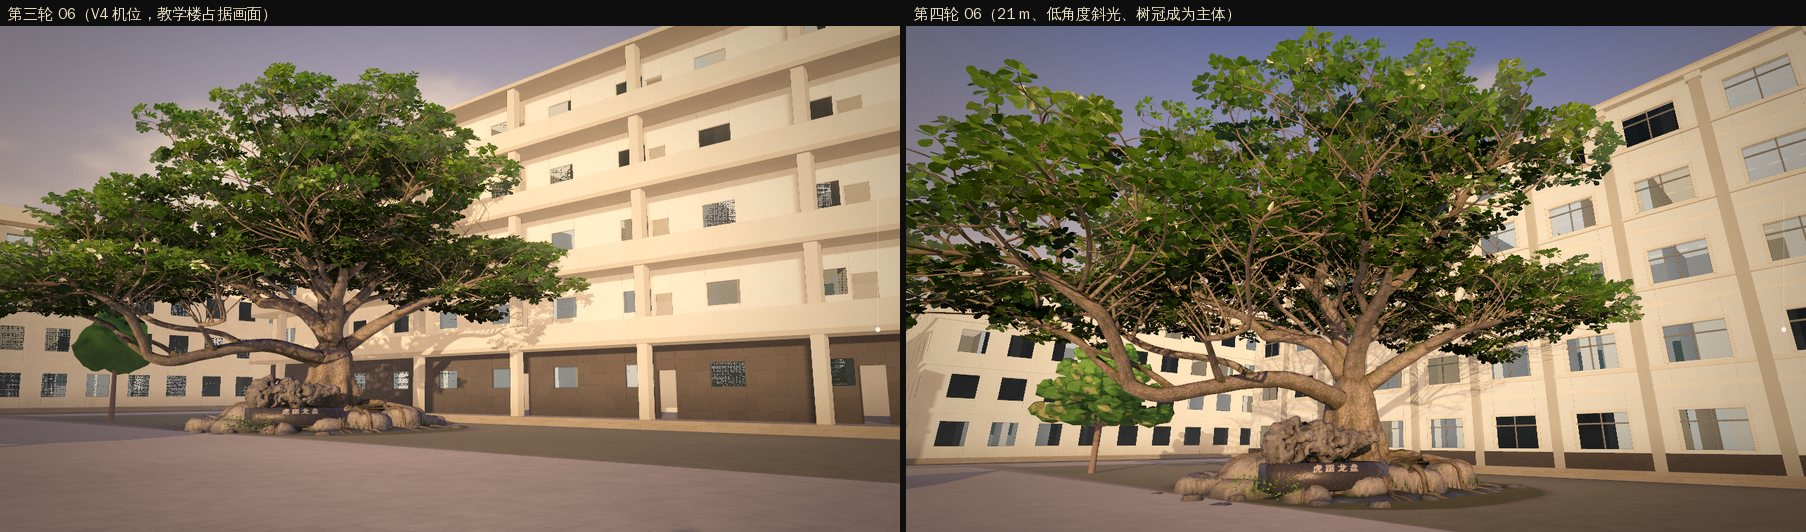
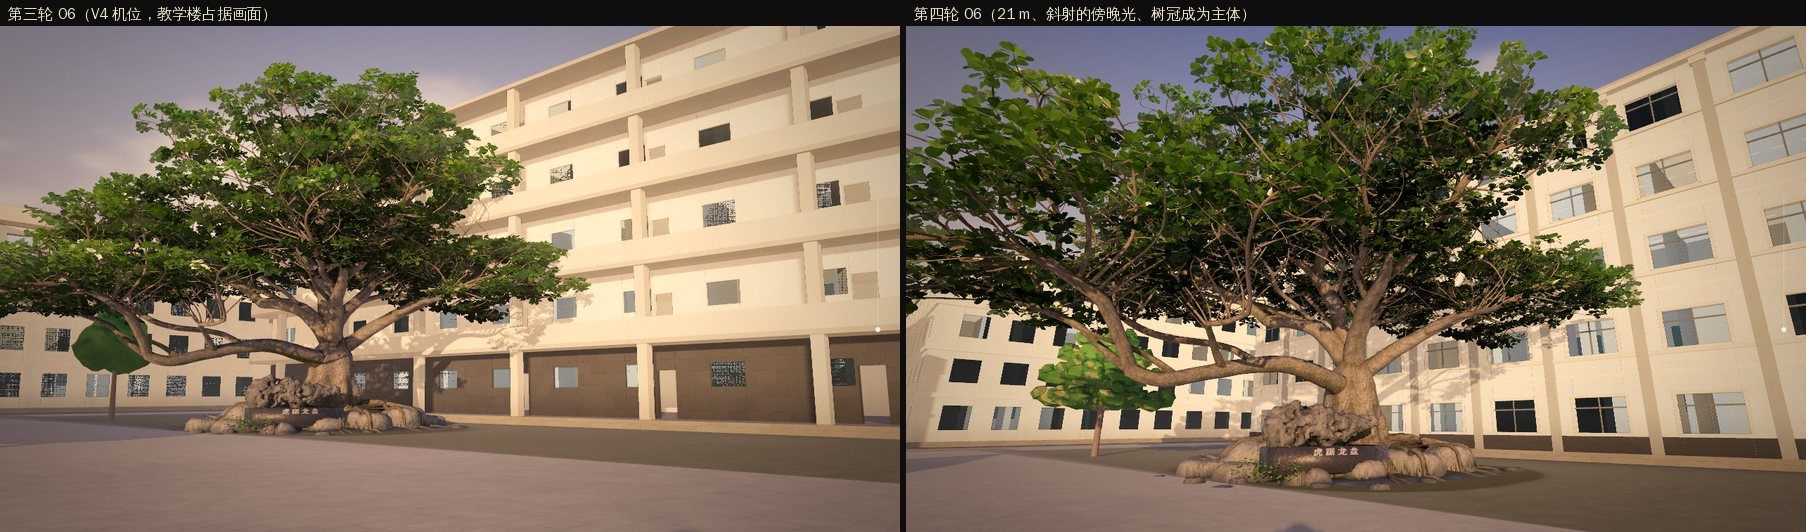
art4: before/after sheets (06, 一号教学楼, act 2 stations, act 3, phone), keyframes; round 4 notes
Claude-Session: https://claude.ai/code/session_01KSor8UyGbqpnVH4L4Tijej

Changed region(s): [[0.4961, 0.0, 1.0, 1.0], [0.9302, 0.7218, 0.9612, 0.782]]

diff --git a/docs/haiz-art-pass-4-20261108.md b/docs/haiz-art-pass-4-20261108.md
@@ -1,10 +1,10 @@
 # HAIZ 六幕 · 第四轮美术精修 · 可信的校园，有时间的人（2026-11-08）
 
-分支 `claude/youthful-davinci-c31244`（接第三轮 `4a7e2df`）。作品叶位地址、历史资料与出处、账号与数据权限、地图空间坐标没有改动；一号教学楼的占地、楼层、高度和碰撞矩形也没有改动。
+分支 `claude/youthful-davinci-c31244`（接第三轮 `4a7e2df`）。没有改动的有：作品叶位地址、历史资料与出处、照片署名与可信度、账号与数据权限、地图空间坐标；一号教学楼的占地、楼层、高度和碰撞矩形也没有改。没有推送 `main`。
 
-图在 `docs/lanren/art4/`，全部是 Chromium 真实 WebGL 渲染（容器无 GPU：SwiftShader 软件渲染）。
+图在 `docs/lanren/art4/`，全部是 Chromium 真实 WebGL 渲染（容器没有 GPU，用的是 SwiftShader 软件渲染），不是合成。
 
-建筑照片参考与建模依据：**`docs/haiz-campus-reference-20261108.md`**。
+建筑照片参考与建模依据单独成文：**`docs/haiz-campus-reference-20261108.md`**。
 
 ---
 
@@ -16,12 +16,159 @@ python3 -m http.server 8080
 
 | 看什么 | 怎么看 |
 |---|---|
-| 第五 → 第六幕（按人的时间） | `index.html`，导航点 05，向下滚动一下然后停手：电影会以它自己的速度演到下一个停顿点；再滚一下继续；向上滚动倒放 |
-| 真实时间播放的录屏 | `docs/lanren/art4/film-realtime.mp4`（40.5 秒，按电影自己的时钟） |
-| 可逆滚动的录屏 | `docs/lanren/art4/film-scrub.mp4`（同一段落前进、停住、倒回） |
-| 第二幕的「光里的照片」 | 滚到第二幕任一年代，停手约一秒 |
+| 第五 → 第六幕（按人的时间） | `index.html`，导航点 05，向下滚动一下然后停手：电影按它自己的速度演到下一个停顿点；再滚一下继续；向上滚动倒放。任何滚轮、触摸、按键都立即接管 |
+| 真实时间播放 | `docs/lanren/art4/film-realtime.mp4`：40.5 秒电影加 4 秒停留，按电影自己的时钟逐帧渲染（每秒 6 帧，混合补帧到 24 fps） |
+| 可逆滚动 | `docs/lanren/art4/film-scrub.mp4`：从行走到回望，前进、倒回、再前进 |
+| 第二幕「光里的照片」 | 滚到第二幕任何一个年代，停手约一秒 |
+| 第三幕 | `index.html?works=demo#leaves`，点「走进作品树冠」 |
 | 第四幕三维校园 | 第四幕「展开为三维」 |
 
 ---
 
-（以下各节由本轮最终结果填写）
+## 1. 校园：从「近似体量」到可以对照照片的建筑
+
+### 1.1 一号教学楼：入口原来背对着它的树
+
+研究照片时发现了一个比材质更根本的问题。学校原文写「**楼前**大叶榄仁树……与**楼前**太湖石」；平面校正以「北门—太湖石—一号教学楼正中」三点共线确定主轴；第二幕 2023 年的照片也显示树后是一号楼有窗的立面。但模型沿用通用的教学楼造型：入口门廊在一侧，开放外廊在另一侧，而朝向榄仁树的恰好是外廊。第六幕回望时，树后其实是这栋楼的背面。
+
+现在一号楼有自己的造型（`lanren/map/campus3d.js` `FORMS.yihao`），并在**同一矩形内转 180°**，让入口朝向树。依据仓库中的正面照片：
+- **两翼**：灰色壁柱、宽窗，每扇窗有白色窗套、灰色窗框、横档和中梃；每层一道白色窗台带；花岗岩勒脚；红瓦檐口。
+- **中央**：两座约四层高的深色花岗岩塔体，每层一扇窄窗；塔体之间三列大窗。
+- **入口**：花岗岩门套，两侧低矮的红色雨棚；上方是平台门廊，两根白柱，红瓦四角起翘屋顶（新增 `sweptHip` 几何体）。
+- **顶部**：升起的女儿墙段、两角方墩、浅色起翘屋顶。
+
+照片验证、推断、缺乏证据三类的逐项对照表，以及「照片显示约 6 层而数据为 5 层」等疑问，见参考文档。背面、两端和室内仍是推测。
+
+### 1.2 树木：按树种的形态
+
+数据里早就为 300 棵校园树标了树种（大叶榄仁 70、椰子 64、重阳木 37、红豆 27、木棉 20、榕树 19……），但画面上只有「椰子」和「圆球」两种。现在每种形态有自己的骨架和叶团，每种三个变体：
+- 大叶榄仁是四层水平轮生枝，与主角那棵树呼应。
+- 木棉是高直树干和稀疏的层枝。
+- 榕树是粗干、宽阔的穹顶冠和少量气根。
+- 风铃木是低分叉的开放瓶形冠。
+- 椰子是微弯的环纹灰干和 18 片拱起下垂的羽叶。
+
+叶团围绕真实枝干生长，轮廓被小团块打碎，所以不再是球。
+
+### 1.3 第四幕同步受益
+
+三维校园展开时，一号楼的入口、塔体与门廊朝向树；树种形态遍布校园（`act4-campus.jpg`）。单栋楼的楼层剖切功能保留（剖切截图在软件渲染下超时，见第 7 节）。
+
+---
+
+## 2. 第五 → 第六幕：按一个人的时间
+
+### 2.1 找到的根本原因：滚动吸附把整段行走压成一秒半
+
+上一轮的人物显得急促，表演本身之外还有一个工程原因。第五、六幕之间的滚动吸附会在停手后，用 0.55–1.5 秒把画面推到下一个停顿点。从「落地」到「停住」之间是约 25 米的行走，于是被压进一秒多，相当于 17 m/s。
+
+现在：
+- **电影有自己的时钟**（`lanren/world/film.js` `DURATION`，共 40.5 秒）。滚动进度与这个时钟成正比，匀速滚动就是人的速度。
+- **电影内部不再吸附**。停手后，电影按自己的速度演到下一个停顿点：前进按原速，倒退快一些（`lanren/js/home.js` `filmOn`）。任何滚轮、触摸、按键立即接管；减少动态效果时不自动播放。
+- 电影的滚动长度从 300vh 增加到 420vh，手动拖动也更从容。
+
+### 2.2 重新表演的段落
+
+| 段落 | 时长 | 表演 |
+|---|---|---|
+| 落地 | 3.6 s | 膝盖吸收冲击，蹲着停一口气；起身时顺势一步接住重心；站稳后环顾：一侧，抬眼看校园，另一侧，再回到要走的方向。身体随之转过去 |
+| 行走 | 11.2 s | 路线微微弯曲（人会偏一点），速度先慢后稳；中途放慢到三分之一，侧头看一座被夕阳照亮的建筑（就是一号楼新的入口），然后继续；最后两步逐渐停住。整数步数，脚在终点并拢；巡航速度 1.42 m/s，步幅 0.68 m |
+| 停住 | 1.6 s | 脚先停；上身带着惯性前倾又回来，手臂多摆一点才静下来，重心移到一条腿上 |
+| 注意到 | 2.6 s | 目光从夕阳落到地面，然后**头越过肩膀向后看**（最多 110°），向下：自己的影子正长长地躺在身后。停留 |
+| 回头 | 3.0 s | 肩膀和脚跟随头转过去，目光一直贴着地上的影子，沿它走向树根 |
+| 升起 | 3.4 s | 目光沿树干升入整个树冠，焦距变长 |
+
+### 2.3 减少没有意义的距离，而不是让人走快
+
+- 第六幕的站位从 V4 的 37 m 移到距树 21 m 的位置，在傍晚影子指回树的那条线上（`lanren/world/compose.js` 构图 B 的 `shot6`），行走从约 15 m 缩短到 11.2 m。
+- 跃下的方向更多朝向终点（落点仍在小岛之外）。
+- 这也解决了「教学楼过于抢眼」：更近、更低的机位让树冠成为画面主体，楼成为背景（`ab-06.jpg`）。
+
+### 2.4 光线
+
+06 的太阳从 298° 移到 320°（05 是 302°，电影进行中逐渐转过去）：
+- 一号楼立面从被正面照亮变成斜射光，新做的壁柱和窗套投下阴影，墙面不再发亮。
+- 人物的影子几乎正对着树干。
+- 构图 A 的太阳按同样的关系重算；漫游延续同一个傍晚。
+
+### 2.5 跃下的顶点
+
+从人物的眼睛看出去时，镜头前一臂以内的叶子会以抖动的方式淡开（`foliage.js` `uNearCut`），像人的眼睛越过一片贴在眼前的叶子。弧线顶点时视线略高于水平，看向校园和天空。
+
+**仍未完全解决**：顶点下方仍有一根粗枝占据画面下部（`film-realtime-sheet.jpg` 第 2 行末）。这根树皮不能淡出，要根本解决需要换起跳点。
+
+### 2.6 第六幕的凝望
+
+安静时间从 2.8 秒延长到 4.2 秒。期间仍可随时按 ↓ / Enter / 滚动交接，只是不催促。
+
+---
+
+## 3. 第二幕：照片能被看清
+
+逐站审查（`act2-stations.jpg`，13 个停靠点，改动前的停靠画面对照改动后停住约一秒的画面）。
+
+改动前看不清的有：
+- 1953—1988 门楼、1988、2015、2023 四张照片，投在叶片和枝条之间时碎得无法辨认。
+- 1938—1946 的「停办」几乎全黑。
+- 1953、1959、2013 的年份顺着枝条倾斜。
+
+**新的方式：光里的照片**（`lanren/roots/roots.js`）：
+- **移动时不变**：照片仍在树上显影，沿树干、枝条和叶片的真实深度碎开，到下一站再聚拢。
+- **停住约一秒后再聚拢一次**：散在树上的光收拢成**同一张照片**，在投影机画它的同一位置、同一大小，展平、立正、均匀照亮。照片下有一层柔和的暗底，四周仍是真实的树叶和枝条。
+- **年代调色**：它带着那个年代的黑白或褐调。它画在后期处理之后，前景叶片的景深模糊不会盖住它，1938 年的低曝光也不会吞掉它。
+- **继续滚动**：照片会再次碎回树上。
+- 只有文字的年代同样聚拢，所以「停办」、1953 年的倾斜年份都变得清楚。
+
+同时修复：从一站跳到另一站时，上一站的照片立即消失（审查中发现上一站的「1924」残留在 1938 站）。照片的位置限制在顶栏、底部文字和右侧年代条之间。
+
+手机（`ab-02-phone-1988.jpg`）：1988 门楼在竖屏上半部清楚显现。
+
+史实、出处、署名、可信度标记一字未改；完整照片仍在「展开阅读」中。
+
+---
+
+## 4. 第三幕：标签不再互相竞争
+
+- 只有一个标签是**主标签**：选中、悬停、聚焦的那片叶，否则是最靠近画面中心的那片。它用完整的烟熏标签，字号更大。
+- 其余最多三个（手机一个）是**安静的名字**：更小、无作者行、底色更淡，悬停时补全。再多的只留圆环和编号，悬停时出现。
+- 手机上顶部的长段「演示」说明折叠成一个「演示 · 说明」小标签，点开才展开，屏幕上半部留给树冠。
+- 阅读视图、触屏 44 px 点击区、五个方向的入口保持不变（`ab-03.jpg`、`ab-03-phone.jpg`）。
+
+---
+
+## 5. 第一幕
+
+重新看过桌面和手机的首屏：冬末红叶、黎明逆光、留白和文字都成立，校园在这一幕不出现（保持 V4 的孤树）。本轮**没有改动第一幕**，不是因为跳过，而是没有找到比现状更好的改法。
+
+---
+
+## 6. 交付内容对照
+
+| 你要求的 | 在哪里 |
+|---|---|
+| 校园建筑照片参考与建模依据 | `docs/haiz-campus-reference-20261108.md` |
+| 校园建模、材质前后对比 | `yihao.jpg`（模型 / 参考照片）、`ab-yihao.jpg`、`ab-06.jpg`、`act4-campus.jpg` |
+| 第五至第六幕：真实时间播放 + 可逆滚动 | `film-realtime.mp4`、`film-scrub.mp4`、`film-realtime-sheet.jpg` |
+| 第二幕每个停靠点的截图审查 | `act2-stations.jpg`、`ab-02-key.jpg`、`ab-02-phone-1988.jpg` |
+| 第三幕树冠和手机的可读性对比 | `ab-03.jpg`、`ab-03-phone.jpg` |
+| 第四幕校园展开 | `act4-campus.jpg` |
+| 第一、五、六幕关键镜头 | `film-keyframes.jpg`、`ab-06.jpg`、`ab-0506-phone-06.jpg` |
+
+---
+
+## 7. 测试、性能与未完成
+
+见第 8 节的验证记录（由最终一次运行填写）。
+
+**性能（软件渲染下的计数，非真机帧率）**
+- 校园树木：21 个实例批次，主通道约 66 万三角形，阴影深度通道再画一次。上一轮约 46 万，增加约 43%，没有做距离分级（LOD）。手机上需要实测；必要时给远处树木换低精度几何。
+- 一号楼新增的壁柱、窗套、塔体等都是盒体，合并在同一个校园网格里，不增加绘制调用。
+- 第二幕的照片是一个四边形，只在停住时绘制一次。
+
+**没有做到的**
+- 其他建筑（二号楼、科学馆、图书馆、凤栖堂……）没有按照片重做。
+- 一号楼的拱窗、背面、屋顶、楼层数需要实地照片。
+- 跃下顶点下方的粗枝（第 2.5 节）。
+- 行走段的画面变化仍少（11 秒里主要是同一方向的校园）。现在的节奏是真实的，但还可以靠路线或机位让它更有看头。
+- 第四幕单栋楼剖切的截图在软件渲染下超时（10 分钟仍未完成一帧），功能本身由 `campus-model` 的剖切检查覆盖，未在画面上复核。
+- **真机与 Safari/WebKit 都没有测试**：容器只有 Chromium（SwiftShader），没有 WebKit，也没有 GPU。新增的 CSS（`backdrop-filter`）都带有 `-webkit-` 前缀；`@view-transition` 与 `pagereveal` 在不支持的浏览器中会被忽略。
